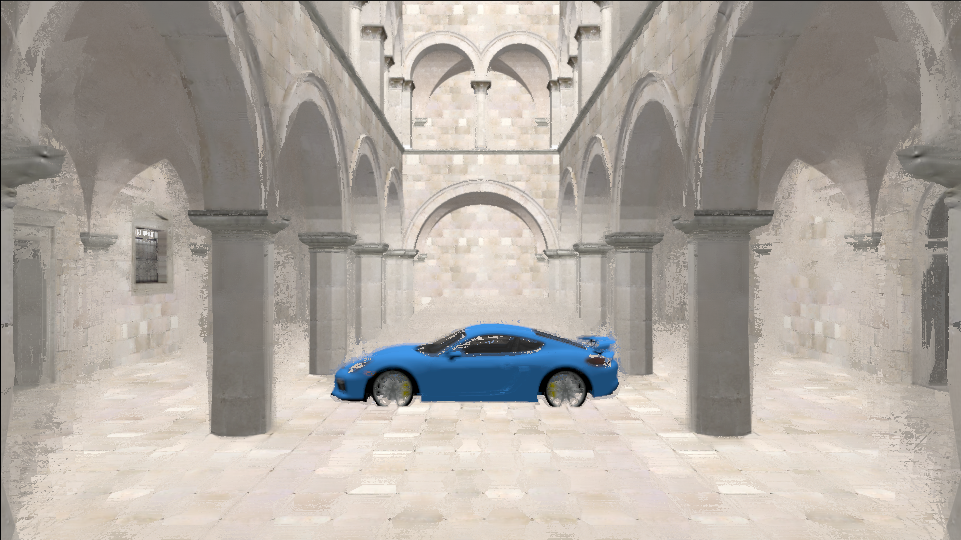
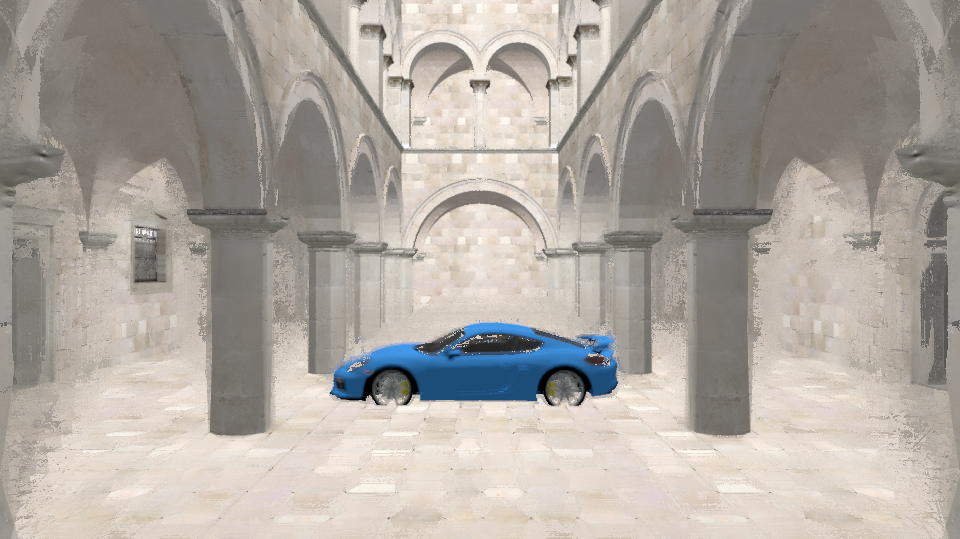
viewgrid

diff --git a/src/ViewGrid.cpp b/src/ViewGrid.cpp
@@ -39,7 +39,7 @@ void ViewGrid::viewCalculateEye(std::shared_ptr<View> view)
 {
     glm::vec3 gridPos = m_viewGridPos[view];
 
-    glm::vec3 worldPos = m_gridMatrix * glm::vec4(gridPos, 1.f);
+    glm::vec3 worldPos = m_gridMatrix * glm::vec4(gridPos.xyz(), 1.f);
 
     view->setCameraEye(worldPos);}
 
@@ -586,15 +586,8 @@ void ViewGrid::resizeViewsHeight(int newViewHeight)
 
 void ViewGrid::calculateGridMatrix()
 {
-    glm::vec3 org = glm::normalize(m_prevViewDir);
-    glm::vec3 target = glm::normalize(m_viewDir);
-
-    float angle = glm::acos(glm::dot(org, target));
-    glm::vec3 axis = glm::normalize(glm::cross(org, target));
-
-    m_gridMatrix = glm::translate(glm::mat4(1.f), m_position);
-    if (m_prevViewDir != m_viewDir)
-        m_gridMatrix = glm::rotate(m_gridMatrix, angle, axis);
+    // https://stackoverflow.com/questions/41104820/how-to-rotate-an-object-using-glmlookat
+    m_gridMatrix = glm::translate(glm::mat4(1.f), m_position) * glm::inverse(glm::lookAt(glm::vec3(0), m_viewDir + glm::vec3(0), glm::vec3(0,1,0)));
 }
 
 }
